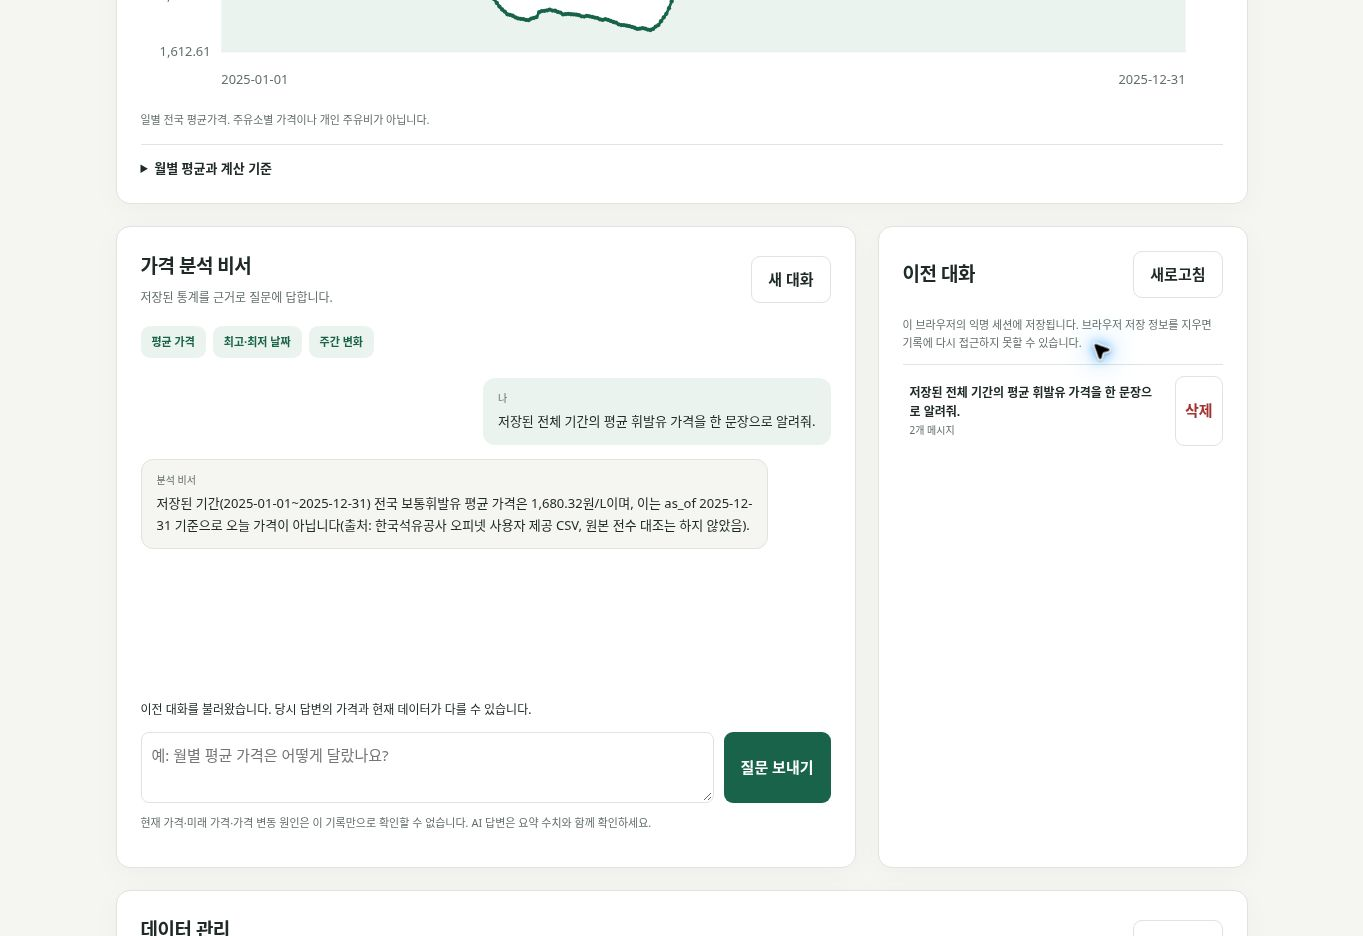
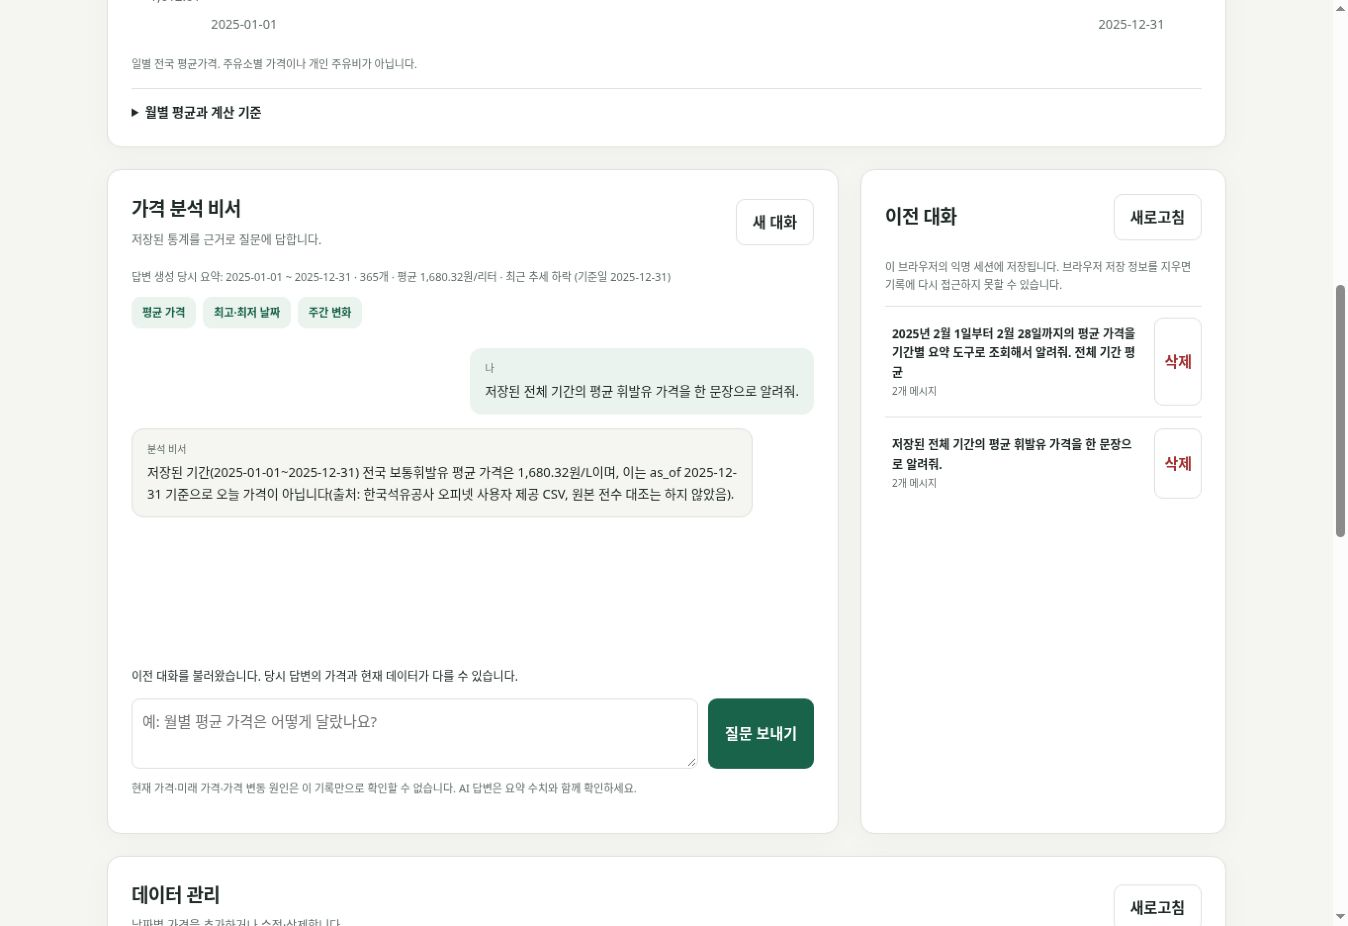
Audit mission requirements and record real tool call

diff --git a/mission-audit.md b/mission-audit.md
@@ -1,0 +1,64 @@
+# 미션 요구사항 재점검 — 2026-10-09
+
+판정 기준: 구현 코드, 18개 자동 테스트, 실제 배포 API, 실제 웹 동작과 제출 증거를 구분했다.
+현재 판정: 필수 기능과 인사이트·UX 선택 과제는 검증 완료. GPT Actions 외부 호출은 미완료이며 전체 과제를 완벽하게 완료했다고 보고하지 않는다.
+
+## 필수 요구사항
+
+| 요구사항 | 판정 | 근거 |
+| --- | --- | --- |
+| Python 3.10 이상·venv·필수 패키지 | 충족 | Render Python 3.12.10, 로컬 가상환경, requirements.txt |
+| Firebase·OpenAI·Render·Vercel 준비 | 충족 | 실제 Firestore 및 두 배포 서비스, Codyssey 호환 GPT 호출 성공 |
+| 관심 시계열 100개 이상 | 충족 | 오피넷 전국 보통휘발유 2025년 일별 기록 365개 |
+| 기간·개수·평균·최대·최소·추세 요약 | 충족 | /api/data/summary HTTP 200, 평균 1680.32, 최소 1626.99, 최대 1746.84 |
+| FastAPI 초기화·CORS·Swagger | 충족 | app/main.py, 실제 /docs 및 /openapi.json, Vercel 도메인 허용 |
+| Firestore data·conversations 저장·키 환경 변수 | 충족 | 원본 가져오기 및 실제 대화 자동 저장·불러오기, Render 비밀 환경 변수 |
+| 데이터 POST·GET·PUT·DELETE·summary | 충족 | 실제 임시 기록 추가 1700→수정 1701→삭제, 원본 365개 복구; 자동 테스트 |
+| 대화 POST·GET·DELETE·개별 GET | 충족 | 실제 저장 201, 목록/개별 200, 검증 대화 삭제 204; 웹 불러오기 |
+| /api/chat 요약 주입·GPT·자동 저장 | 충족 | 실제 평균 질문과 답변 통계 일치, 자동 저장·불러오기 |
+| Render 배포·무료 첫 요청 안내 | 충족 | Free 서비스, 콜드스타트·연결 지연 화면 안내 |
+| HTML/CSS/JS, 프레임워크 금지 | 충족 | vanilla frontend, SVG 그래프 |
+| 메시지 입력·대화 표시·로딩 | 충족 | 실제 대화, 생성 중 상태·입력 비활성화 확인 |
+| 데이터 추가·목록·수정 또는 삭제 UI | 충족 | 추가·수정·삭제 실제 UI 검증, data-crud-success.jpg |
+| 이전 대화 목록·불러오기 | 충족 | conversation-load.jpg의 복원 메시지와 불러오기 성공 안내 |
+| 현재 요약 정보 표시 | 충족 | 상단 카드·기간·추세, 채팅에 답변 당시 요약 표시 보완 |
+| Vercel 배포·API_BASE_URL 환경 변수 | 충족 | 실제 Production URL, frontend/build.mjs로 빌드 설정 반영 |
+| README 소개·스택·URL·로컬·환경 변수 | 충족 | README 해당 절 |
+| 요약과 질문·답변이 함께 보이는 캡처 | 충족 | 보완된 conversation-load.jpg |
+| CRUD 동작 및 대화 불러오기 캡처 | 충족 | data-crud-success.jpg, conversation-load.jpg |
+| 입력 검증·최소 예외 처리·키 보호 | 충족 | Pydantic 422, 인증·404·409·503 처리, 서버 환경 변수 |
+| GPT 요청·토큰 한도 | 충족 | 요청당 최대 3회 호출, 호출당 2000 토큰, 세션/전체 요청 한도 |
+
+## 선택 요구사항
+
+| 요구사항 | 판정 | 근거 |
+| --- | --- | --- |
+| Function Calling 스키마·도구 연결 | 충족 | get_data_summary, get_conversation_history; 허용 목록·인자 검증 |
+| 실제 도구 선택 근거·호출 흐름 문서 | 충족 | 2월 질문→기간 요약 도구→28개·1728.26원/L→최종 답변; README·스크린샷 |
+| MCP 또는 GPT Actions 외부 채널 연결 검증 | 미완료 | 사용자는 GPT Actions를 지정. 편집기가 현재 작업 브라우저에서 빈 화면. Actions 환경 변수·GPT 연결·실제 호출 증거 필요 |
+| 추가 지표 1개 이상 | 충족 | 월평균, 기간 변화율, 최근/직전 7일 변화율 |
+| 그래프 1개 | 충족 | 실제 일별 SVG 추세 그래프 |
+| CSV 또는 JSON 다운로드 | 충족 | 실제 CSV 다운로드·365개 파싱 확인 |
+| 다크 모드 | 충족 | 실제 전환 및 라이트 복원 확인 |
+
+## 학습 목표 설명 근거
+
+데이터 수집→Firestore 저장→Decimal 통계→시스템 프롬프트 주입→GPT 답변→대화 저장의 흐름은 README의 분석·구조·채팅 절에 설명했다.
+라우터는 HTTP·검증·인증, 서비스는 통계와 AI, 저장소는 Firestore 접근으로 역할을 분리한다.
+Pydantic은 부정확한 날짜·가격·과도한 메시지·예상하지 않은 필드를 DB 저장 전에 거부한다.
+CORS 허용 도메인과 공개 API 서버 URL은 비밀 API 키와 구분한다. 키는 서버 환경 변수로만 관리한다.
+
+## 실제 재검증
+
+- pytest 18 passed, JavaScript 문법 검사 및 Vercel 환경 변수 기반 빌드 성공.
+- 배포 /health·/api/data/summary·/openapi.json HTTP 200.
+- 2월 평균 1728.26, 기록 28개를 실제 GPT 답변과 배포 요약 월평균으로 대조.
+- GPT 편집기 새로고침 1회 후에도 빈 화면. /actions/openapi.json은 환경 변수 미설정으로 503.
+- 모바일 자동 테스트는 미실행. 필수 과제에는 모바일 자동 테스트가 지정되어 있지 않다.
+
+## GPT Actions 완료 조건
+
+1. ACTIONS_PUBLIC_BASE_URL 및 별도 읽기 전용 ACTIONS_API_KEY를 Render에 설정.
+2. GPT 편집기에서 스키마 가져오기·Bearer 인증 연결.
+3. 실제 ChatGPT의 전체 기간·2월·범위 밖 요청 결과를 확인하고 API 로그·답변·스크린샷 기록.
+4. Actions 문서와 이 점검표를 실제 증거로 갱신.
